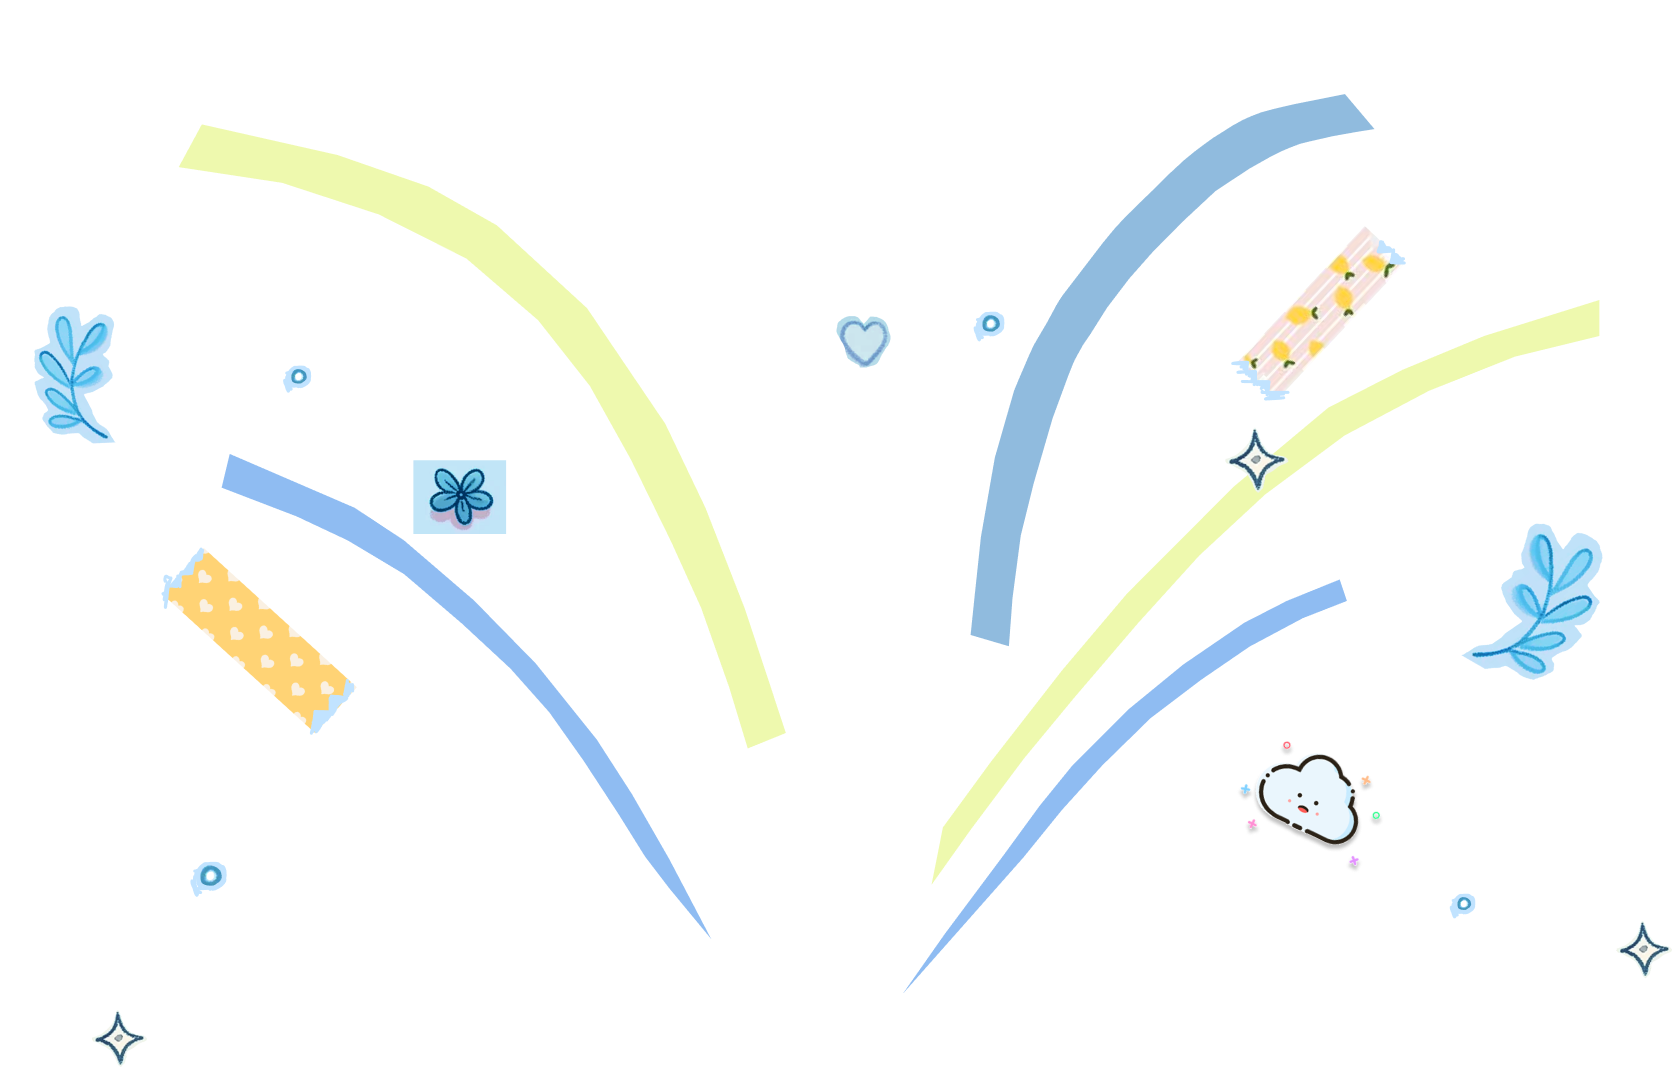
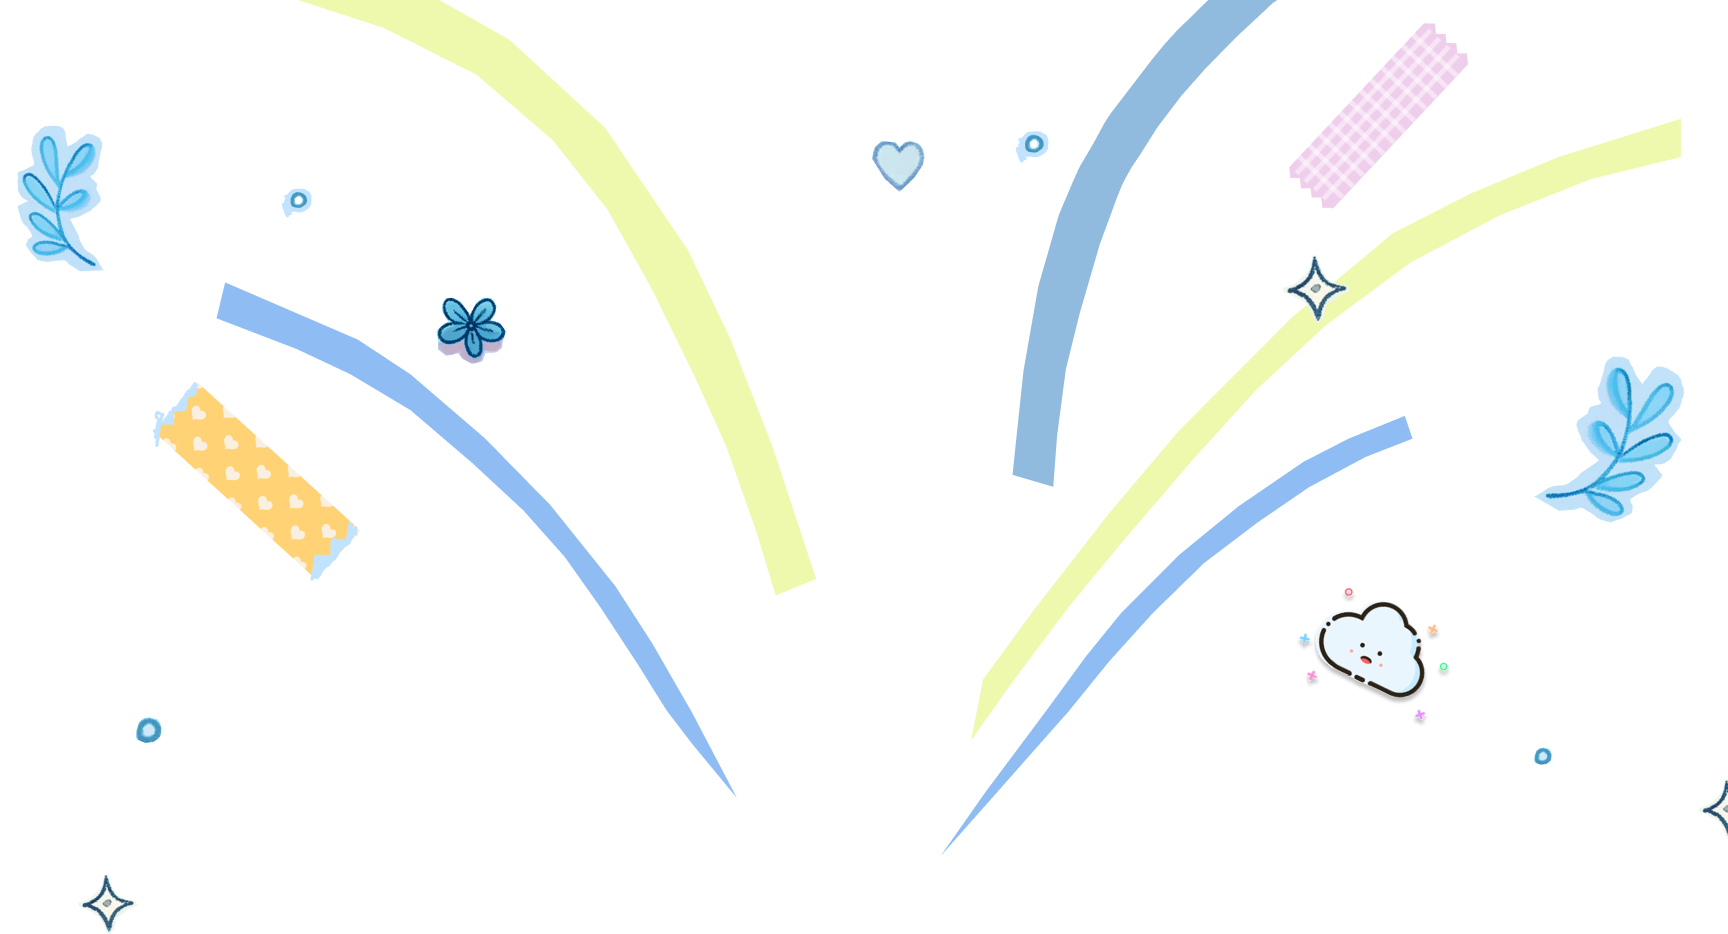
design : 해당 월 아닌 날 회색으로 표시

diff --git a/src/components/CalendarPage/ProfileMenu.jsx b/src/components/CalendarPage/ProfileMenu.jsx
@@ -64,108 +64,102 @@ function ProfileMenu({
   };
   return (
     <ProfileMenuFrame>
-      <ProfileMenuTop>
-        <svg
-          xmlns="http://www.w3.org/2000/svg"
-          viewBox="0 0 228 86"
-          fill="#C6F1FF">
-          <rect width="228" height="86" rx="20" fill="#C6F1FF" />
-          <rect y="30.0996" width="228" height="54.825" fill="#C6F1FF" />
-        </svg>
-      </ProfileMenuTop>
-      <UserId>{userId}</UserId>
       <UserName>{userName}</UserName>
-      <HaruConnectingTutorial onClick={handleHaruConnectingTutorialClick}>
-        하루 연결 도움말
-      </HaruConnectingTutorial>
-      <LogOut onClick={handleLogOutClick}>로그아웃</LogOut>
+      <UserId>{userId}</UserId>
+      <BottomFrame>
+        <HaruConnectingTutorial onClick={handleHaruConnectingTutorialClick}>
+          Tutorial
+        </HaruConnectingTutorial>
+        <LogOut onClick={handleLogOutClick}>Logout</LogOut>
+      </BottomFrame>
     </ProfileMenuFrame>
   );
 }
 const ProfileMenuFrame = styled.div`
-  width: 14.25rem;
-  height: 15.625rem;
-  flex-shrink: 0;
-  border-radius: 1.25rem;
-  background: #e8f7fc;
-  box-shadow: 0px 4px 4px 0px rgba(0, 0, 0, 0.25);
+  width: 12.75rem;
+  height: 10rem;
   display: flex;
+  flex-direction: column;
+  border-radius: 0.625rem;
+  background: #ebf2fc;
+  box-shadow: 4px 4px 4px 0px rgba(0, 0, 0, 0.2);
   justify-content: center;
 `;
-const ProfileMenuTop = styled.div`
-  position: absolute;
-  width: 14.25rem;
-  height: 5.375rem;
-  flex-shrink: 0;
-  z-index: 1;
-  svg {
-    width: 100%;
-    height: 100%;
-    fill: none;
-  }
+const UserName = styled.div`
+  z-index: 2;
+  margin-top: 1rem;
+  color: #000;
+  text-align: center;
+  font-family: 'bmjua';
+  font-size: 1rem;
 `;
 const UserId = styled.div`
-  position: absolute;
-  margin-top: 1.13rem;
-  left: 1.06rem;
   z-index: 2;
+  margin-top: 0.375rem;
   color: #aaa;
   text-align: center;
-  font-family: Arial Black;
+  font-family: 'bmjua';
   font-size: 1rem;
-  font-style: normal;
-  font-weight: 900;
-  line-height: normal;
 `;
-const UserName = styled.div`
-  position: absolute;
-  margin-top: 3.06rem;
-  left: 1.06rem;
-  z-index: 2;
-  color: #aaa;
-  text-align: center;
-  font-family: Arial Black;
-  font-size: 1rem;
-  font-style: normal;
-  font-weight: 900;
-  line-height: normal;
+const BottomFrame = styled.div`
+  display: flex;
+  margin-top: 1.675rem;
+  width: 100%;
+  height: 2.5rem;
+  justify-content: center;
+  flex-direction: row;
 `;
 const HaruConnectingTutorial = styled.div`
-  position: absolute;
-  margin-top: 6.94rem;
-  left: 1.06rem;
+  width: 5.375rem;
+  height: 2.5rem;
   z-index: 2;
+  margin: 0.375rem;
   color: #aaa;
   text-align: center;
-  font-family: Arial Black;
+  font-family: 'bmjua';
   font-size: 1rem;
-  font-style: normal;
-  font-weight: 900;
-  line-height: normal;
+  display: flex;
+  align-items: center;
+  justify-content: center;
+  cursor: pointer;
+  text-decoration: none;
+  border-radius: 0.5rem;
+  box-shadow: 4px 4px 4px 0px rgba(0, 0, 0, 0.1);
   cursor: pointer;
   text-decoration: none;
   transition: transform 0.3s ease-in-out;
   &:hover {
     transform: scale(1.1);
   }
+  background: linear-gradient(
+    to bottom right,
+    rgba(255, 255, 255, 0.7),
+    rgba(255, 255, 255, 0.2)
+  );
 `;
 const LogOut = styled.div`
-  position: absolute;
-  margin-top: 9.88rem;
-  left: 1.06rem;
+  width: 5.375rem;
+  height: 2.5rem;
+  margin: 0.375rem;
   z-index: 2;
   color: #dd0000;
-  text-align: center;
-  font-family: Arial Black;
+  display: flex;
+  align-items: center;
+  justify-content: center;
+  font-family: 'bmjua';
   font-size: 1rem;
-  font-style: normal;
-  font-weight: 900;
-  line-height: normal;
+  border-radius: 0.5rem;
+  box-shadow: 4px 4px 4px 0px rgba(0, 0, 0, 0.1);
   cursor: pointer;
   text-decoration: none;
   transition: transform 0.3s ease-in-out;
   &:hover {
     transform: scale(1.1);
   }
+  background: linear-gradient(
+    to bottom right,
+    rgba(255, 255, 255, 0.7),
+    rgba(255, 255, 255, 0.2)
+  );
 `;
 export default ProfileMenu;

diff --git a/src/pages/SignUpPage.jsx b/src/pages/SignUpPage.jsx
@@ -136,14 +136,26 @@ function SignUpPage(props) {
 
       if (response.data.code === 'M001' && response.status === 201) {
         console.log('회원가입 완료');
+        Swal.fire({
+          title: '회원가입 완료!',
+          text: '회원가입이 성공적으로 완료되었습니다.',
+          icon: 'success',
+          confirmButtonText: '확인',
+        });
         navigate('/login');
       } else {
         console.error('회원가입 실패:', response.data.message);
-        Swal.fire("이미 존재하는 로그인 ID입니다. ");
-
+        Swal.fire('이미 존재하는 로그인 ID입니다. ');
       }
     } catch (error) {
       console.error('API 호출 중 오류 발생:', error);
+      if (usernameWrite && idWrite && pwWrite && pwMatchWrite) {
+        Swal.fire({
+          text: '이미 존재하는 ID입니다.',
+          icon: 'error',
+          confirmButtonText: '확인',
+        });
+      }
     }
   };
 
@@ -197,7 +209,7 @@ function SignUpPage(props) {
     if (e.key === 'Enter') {
       handleSignUp();
     }
-  };  
+  };
 
   return (
     <BackLayout>

diff --git a/src/components/CalendarPage/DateNotification.jsx b/src/components/CalendarPage/DateNotification.jsx
@@ -165,7 +165,10 @@ const DateNotification = ({
         return (
           <DiarySettingWindow>
             <SelectDateText>
-              {diaryMonth}월 {diaryDay}일 일기를 작성해요!
+              <span className="writeDiaryDate">
+                {diaryMonth}월 {diaryDay}일{' '}
+              </span>
+              일기를 작성해요!
             </SelectDateText>
             <SelectInnerPaperText>
               일기 배경지를 선택해 주세요
@@ -293,7 +296,7 @@ const NotifyText = styled.div`
 const SelectDateText = styled.p`
   position: absolute;
   margin-top: 5.5rem;
-  color: #2c199f;
+  color: #000000;
   font-family: 'mong';
   font-size: 1.5rem;
   font-style: normal;
@@ -305,9 +308,9 @@ const SelectDateText = styled.p`
 const SelectInnerPaperText = styled.p`
   position: absolute;
   margin-top: 8.75rem;
-  color: #9f9f9f;
+  color: #bbb;
   font-family: 'mong';
-  font-size: 1rem;
+  font-size: 1.2rem;
   font-style: normal;
   font-weight: 400;
   line-height: normal;

diff --git a/src/components/CalendarPage/Calendar.css b/src/components/CalendarPage/Calendar.css
@@ -145,8 +145,8 @@
 
 /* 캘린더  내부*/
 .bodycol {
-  width: 15%;
-  height: 97%;
+  width: 14.6%;
+  height: 100%;
   display: flex;
   flex-direction: row;
   justify-content: center;
@@ -232,7 +232,7 @@
   border-radius: 0.625rem;
   box-shadow: 0px 4px 4px 0px rgba(0, 0, 0, 0.25);
   cursor: pointer;
-  transition: all 0.15s ease;
+  transition: all 0.3s ease;
 }
 
 .GoToSelectInnerPaperBtn:hover {
@@ -249,10 +249,10 @@
   margin-top: 0.625rem;
   /* box-shadow: 0px 4px 4px 0px rgba(0, 0, 0, 0.25); */
   cursor: pointer;
-  transition: all 0.15s ease;
+  transition: all 0.3s ease;
 }
 
 .GoToShareURLBtn:hover {
-  height: 3.125rem;
+  height: 3.5rem;
   /* box-shadow: 0px 8px 8px 0px rgba(0, 0, 0, 0.25); */
 }

diff --git a/src/GlobalStyles.js b/src/GlobalStyles.js
@@ -15,6 +15,13 @@ const GlobalStyles = createGlobalStyle`
         font-size: 0.74rem;
         vertical-align: baseline;
     }
+    img, div {
+    user-select: none;
+    -moz-user-select: none;
+    -webkit-user-drag: none;
+    -webkit-user-select: none;
+    -ms-user-select: none;
+  }
     body{
         line-height: 1;
         font-family: 'Noto Sans KR', sans-serif;

diff --git a/src/pages/StartPage.jsx b/src/pages/StartPage.jsx
@@ -100,9 +100,10 @@ const slideUp = keyframes`
 const StyledPapers = styled.img`
   position: absolute;
   width: 111.05256rem;
-  height: 70.87131rem;
-  left: -1.3rem;
-  top: -13rem;
+  height: 60.87131rem;
+
+  left: 0rem;
+  top: -3rem;
   z-index: 1;
   animation: ${slideUp} 0.5s ease-out;
 `;

diff --git a/src/components/CalendarPage/Calendar.jsx b/src/components/CalendarPage/Calendar.jsx
@@ -72,7 +72,7 @@ const RenderCells = ({
       <div
         className={`bodycol cell ${
           !isDateInMonth(day)
-            ? 'out-of-month'
+            ? 'not-valid'
             : isDateSelected(day)
               ? 'selected'
               : isDateToday(day)

diff --git a/src/components/CalendarPage/DateNotification.css b/src/components/CalendarPage/DateNotification.css
@@ -2,3 +2,7 @@
   font-size: 18px;
   max-width: 500px;
 }
+
+.writeDiaryDate {
+  color: #2c199f;
+}
